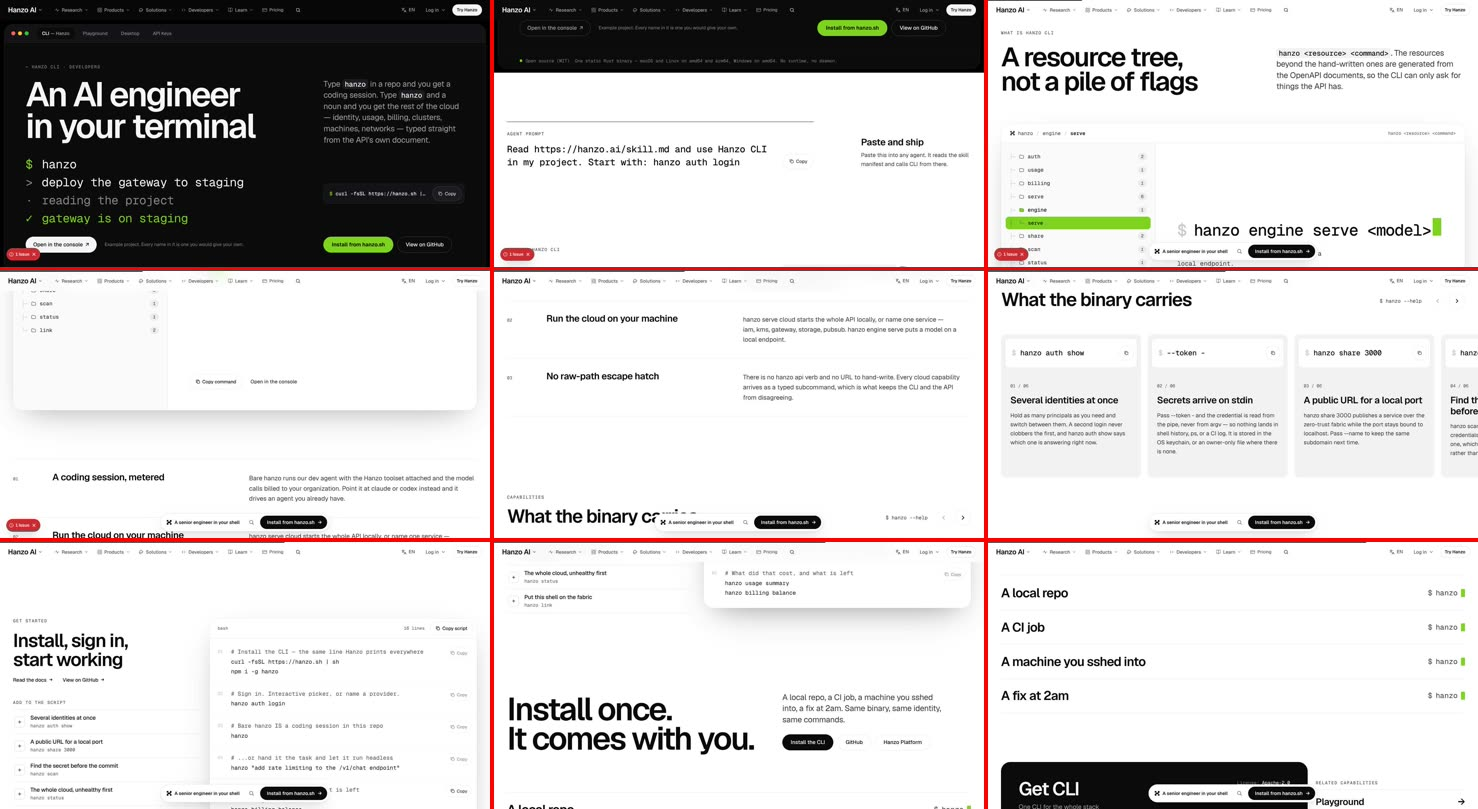
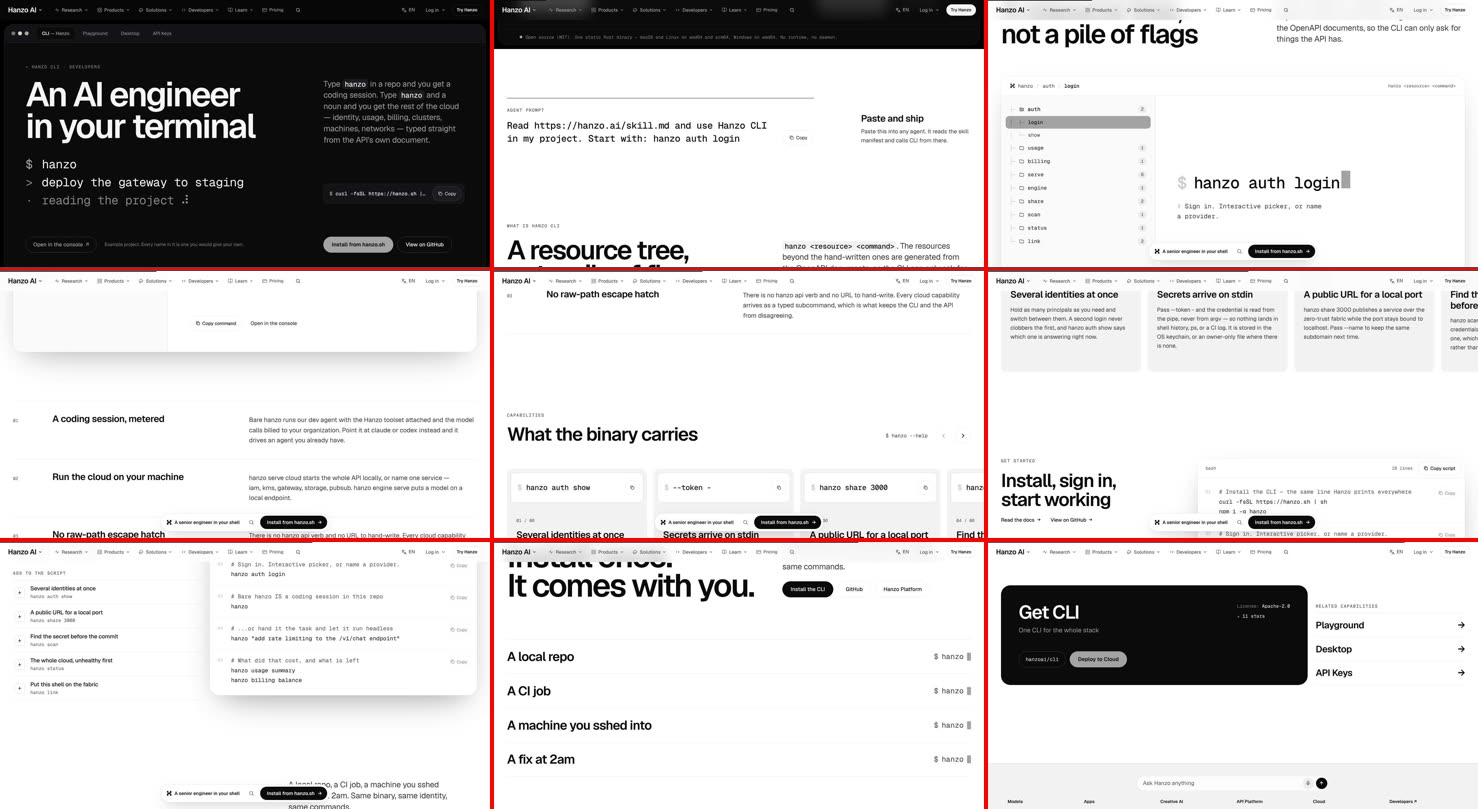
review: /cli 6/10 at 4b53974 (grey primary, floating ask, no card)
Claude-Session: https://claude.ai/code/session_01DqUybDEA5FZ4ZbAGVya4QA

diff --git a/docs/review/cli.md b/docs/review/cli.md
@@ -1,42 +1,53 @@
 # /cli — James-eye review
 
-Verdict: 7/10
-First complaint: "Lime green buttons? I said no green. Black, white and greys."
+Verdict: 6/10
+First complaint: "The install button went a dull grey, so 'Open in the console' shouts louder than it. And there's a pill bar floating over the text."
 
-Walked 7 Nov, page file at `a1dcdca` (`components/pages/CliPage.jsx`, `CliPage.css`, shared `v2/AppStage`, `AppScenes`), on the preview of main plus the Apps 1 branch. Filmed moving at 1470×801 and 375×812 (wheel and finger scroll, dwell on every screen, hover and press on desktop, taps on phone), plus reduced motion and JS off. The machine was overloaded during the walk, so motion was judged from the frames, not the frame-rate numbers. Stills: `review/cli/desktop-walk.jpg`, `review/cli/phone-walk.jpg`.
+Walked 7 Nov, page file at `4b53974` (`components/pages/CliPage.jsx`, `CliPage.css`, shared `v2/AppStage`, `AppScenes`), on the 14:43 preview of main plus the Apps branches, judged against `docs/MASTER.md` and `docs/JAMES.md`.
+- **This build:** a 9-second first-screen film at 1470×801 and 375×812 with no input, a full scroll pass at both widths, reduced motion, JS off and phone tap targets.
+- **The earlier `a1dcdca` walk:** the full moving walk with hovers and taps; the layout is the same.
+
+Stills: `review/cli/desktop-walk.jpg`, `review/cli/phone-walk.jpg`, `review/cli/desktop-first-9s.jpg`.
 
 ## What works
-- This is the right hero for a developer page. The whole first screen is one dark terminal window, and it types Hanzo's own session by itself: `hanzo`, "deploy the gateway to staging", reading the project, "gateway is on staging". The install line with Copy sits beside it. That is BRIEF §5.6 done properly.
-- The resource tree is a real object: open a folder and the command it prints lands big beside it, with a block cursor.
-- "What the binary carries" is a rail of real commands, each with its own Copy. The script builder copies line by line. Copy confirms ("Copied").
-- Desktop has a sticky ask: a floating pill "A senior engineer in your shell · Install from hanzo.sh →" once the hero leaves, and the phone has the same bottom bar. Same verb as the hero.
-- Press answers (scale .92 on Copy). Desktop CLS 0. Parity: text 82/82, links 10/10. Reduced motion leaves 0 running; JS off hides only 1 of 32 text blocks.
+- Still the best first screen in the Apps group. The whole first screen is one dark terminal window that types Hanzo's own session by itself (`hanzo`, "deploy the gateway to staging", reading the project, "gateway is on staging"), with the install line and Copy beside it. That is MASTER §4.6's developer hero.
+- The resource tree is a real object: open a folder and the command it prints lands big beside it.
+- "What the binary carries" is a rail of real commands with Copy. The script builder copies line by line. Copy confirms.
+- Monochrome now (taste.py passes). JS off hides 0 of 32 text blocks. Reduced motion leaves 0 running. Parity: text 82/82, links 10/10.
+
+## Card check
+- `docs/coverage/cli.md` does not exist, so the verdict is capped at 7. All 18 parts are missing a `Done here:` line.
 
 ## The 11 answers
-1. **Sells in 5 seconds, moves within 1 second?** Yes. A headline plus a terminal typing a real job. It is the best first screen in the Apps group.
-2. **One in, one out, or a document?** Mostly scenes. "A coding session, metered" is three numbered paragraphs in a list, a document moment in the middle.
+1. **Sells in 5 seconds, moves within 1 second?** Yes, the terminal types at once. On the slow machine the h1 arrived after the terminal had started; paint it first.
+2. **One in, one out, or a document?** Mostly scenes. "A coding session, metered" is three numbered paragraphs, a document moment.
 3. **A real visual object in every section?** Yes, apart from the "metered" list.
-4. **One ask, sticky after the hero?** Sticky, yes, at both widths. But the hero shows two solid buttons ("Open in the console" in white and "Install from hanzo.sh" in lime) plus the header's solid "Try Hanzo". The page also ends twice: "Install once. It comes with you." with a solid "Install the CLI", then a "Get CLI" card with a solid lime "Deploy to Cloud".
-5. **Every hover and press answers, no jumps?** Desktop yes. Phone: two tree rows ("status", "--read-only") and one Copy gave no visible answer to a tap. "Open in the console" is a 15px-tall tap target on phone; "Read the docs" and "View on GitHub" are 21px.
-6. **Overlaps, font swap, layout shift?** Phone layout shift is 0.42: opening a tree folder and the terminal output growing push the whole section down under your thumb. Desktop 0. No overlap.
-7. **Which reference, is its motion there?** Apple product page (the product is the hero, one idea per screen): yes. osply's copy-in-place: yes.
-8. **Different from neighbours?** Yes in the hero: it is the only page in the group whose first screen is the product's own dark room. Below the hero it shares the kit with /api, /bot, /desktop and /gen.
-9. **18 areas (PLAN-COMPONENTS)?** See below. No `docs/coverage/cli.md`.
+4. **One ask, in the sticky header?** No.
+    - The header says "Try Hanzo", while the page's ask is "Install from hanzo.sh".
+    - That ask rides in a floating pill at the bottom of the desktop screen, over the "metered" text and the script.
+    - The palette swap turned the lime primary into a mid-grey (`#a3a3a3`) fill on black. The white "Open in the console" now reads as the main button, and the hierarchy is upside down.
+    - The page still ends twice: "Install the CLI" (solid), then a "Get CLI" card with a grey solid "Deploy to Cloud".
+5. **Every hover and press answers, no jumps?** Desktop yes on the full walk. Phone: "Open in the console" is a 15px-tall target; "Read the docs" and "View on GitHub" are 21px.
+6. **Overlaps, font swap, layout shift?** The floating pill overlaps content at 1470×801. On phone, opening a tree folder pushed the section down: 0.42 layout shift on the full walk (`a1dcdca`, same layout).
+7. **Which reference, is its motion there?** Apple's product-as-hero: yes. osply's copy-in-place: yes.
+8. **Different from neighbours?** Yes in the hero, the only Apps page that opens in its own dark room.
+9. **18 parts (MASTER §2)?** No card. See below.
 10. **Banned tells?** Yes:
-    - a lime green accent on the main button, the prompt, the tree highlight, the cursor blocks and "Deploy to Cloud" (green accents and UI hues are both on his reject list);
-    - eyebrows over the h1 ("~ HANZO CLI · DEVELOPERS") and over headlines ("WHAT IS HANZO CLI", "CAPABILITIES", "GET STARTED").
+    - labels directly above the h1 ("~ HANZO CLI · DEVELOPERS") and above h2s ("WHAT IS HANZO CLI", "CAPABILITIES", "GET STARTED");
+    - a floating pill bar over content.
 11. **Copy untouched?** Yes (parity clean).
 
-## Missing from the 18 areas
-- **2.4 Conversion:** two solid buttons in the hero, and two endings with two different solids.
-- **2.7 Visual system:** the lime accent; it is also the same green family /kata uses.
-- **2.11 / 2.12:** phone layout shift 0.42; 15–21px tap targets.
-- **2.16 Developer:** good. Copy equals the displayed line. Keep the `$` unselectable rather than in the copied text.
-- **2.18:** no `Persona:` / `Goal:` / `CTA:` lines, no `data-cta`.
+## Missing from the 18 parts
+- **Card:** no coverage card, and no `Persona:` / `Goal:` / `CTA:` / metric lines.
+- **Part 3:** two endings, no single `Band`.
+- **Part 4:** header ask mismatch; floating ask; the primary is weaker than the secondary.
+- **Part 7:** labels over headings; a grey fill that reads disabled (MASTER §3.1: white 30% / grey is the disabled rank on black).
+- **Part 11:** phone layout shift; small targets.
 
 ## Fixes (in order)
-1. **Lose the green.** "Install from hanzo.sh" becomes the white solid on the dark room; prompt, tree highlight and cursor go white or a silver alpha step. "Deploy to Cloud" goes ink.
-2. **One solid in the hero.** Keep "Install from hanzo.sh" solid. Make "Open in the console" and "View on GitHub" text links with a chevron.
-3. **One ending.** Let "Install once. It comes with you." be the closing Band, with "Install from hanzo.sh" (the hero's verb) as its one solid. Move the "Get CLI" card and related links above it, or drop the extra solid.
-4. **Stop the phone jump.** Give the tree's output pane and the hero terminal fixed heights, so opening a folder never moves what is below. Make every phone tap target 44px.
-5. **Delete the kickers** over the h1 and the section headlines.
+1. **Fix the hierarchy.** "Install from hanzo.sh" becomes the one white solid on the black room. "Open in the console" and "View on GitHub" become text links with a chevron. "Deploy to Cloud" stops being a filled grey.
+2. **The ask goes in the header.** "Install from hanzo.sh" in the sticky header for this page (via `lib/cta.js`; write `docs/requests/cli.md` for the shared part). Turn off the floating desktop pill.
+3. **One ending.** Let "Install once. It comes with you." be the closing `Band` with the hero's verb as its one solid. Move "Get CLI" and the related links above it.
+4. **Stop the phone jump.** Give the tree's output pane and the hero terminal fixed heights. Make every phone target 44px.
+5. **Delete every label sitting directly above a heading.**
+6. **Write `docs/coverage/cli.md`.**
